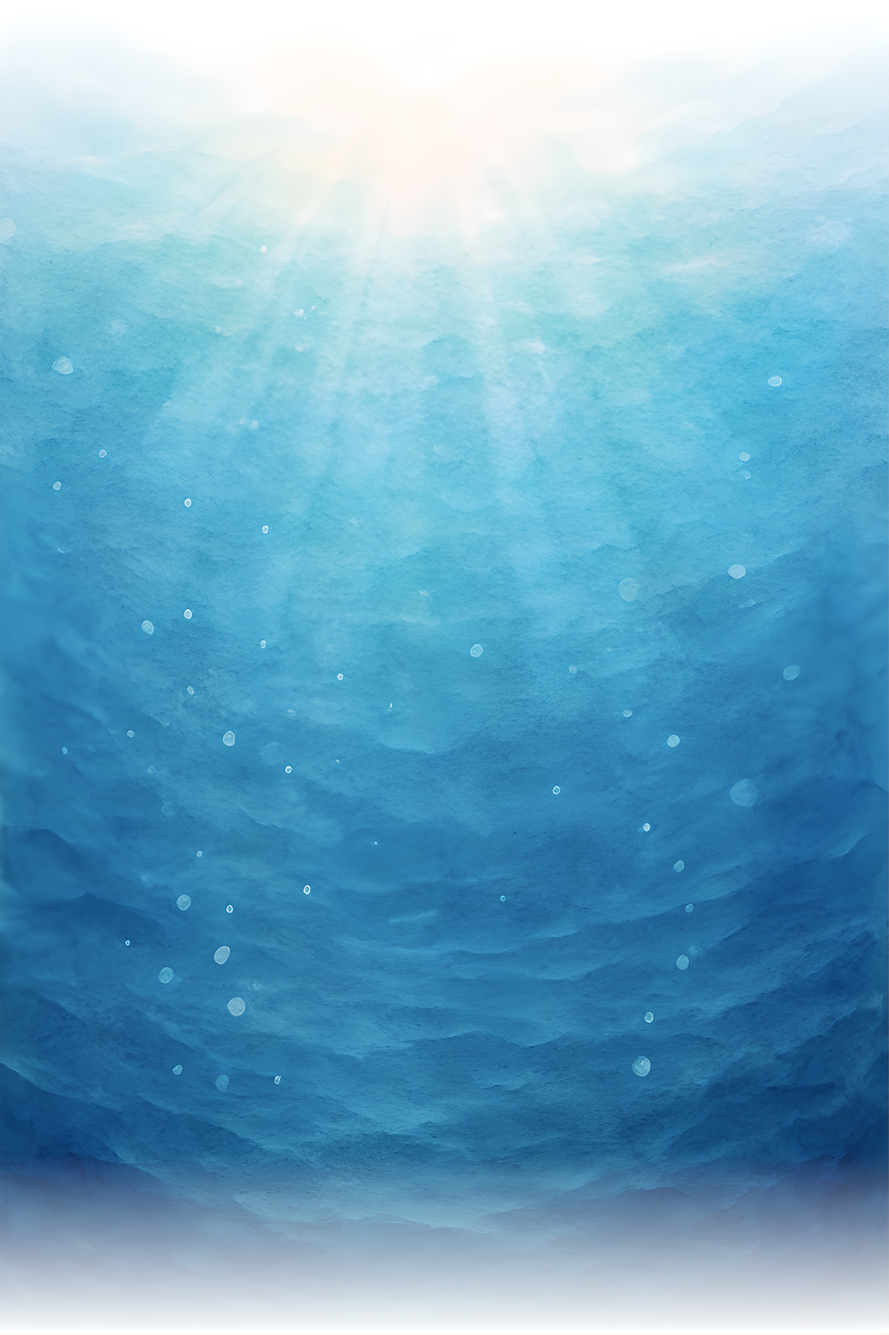
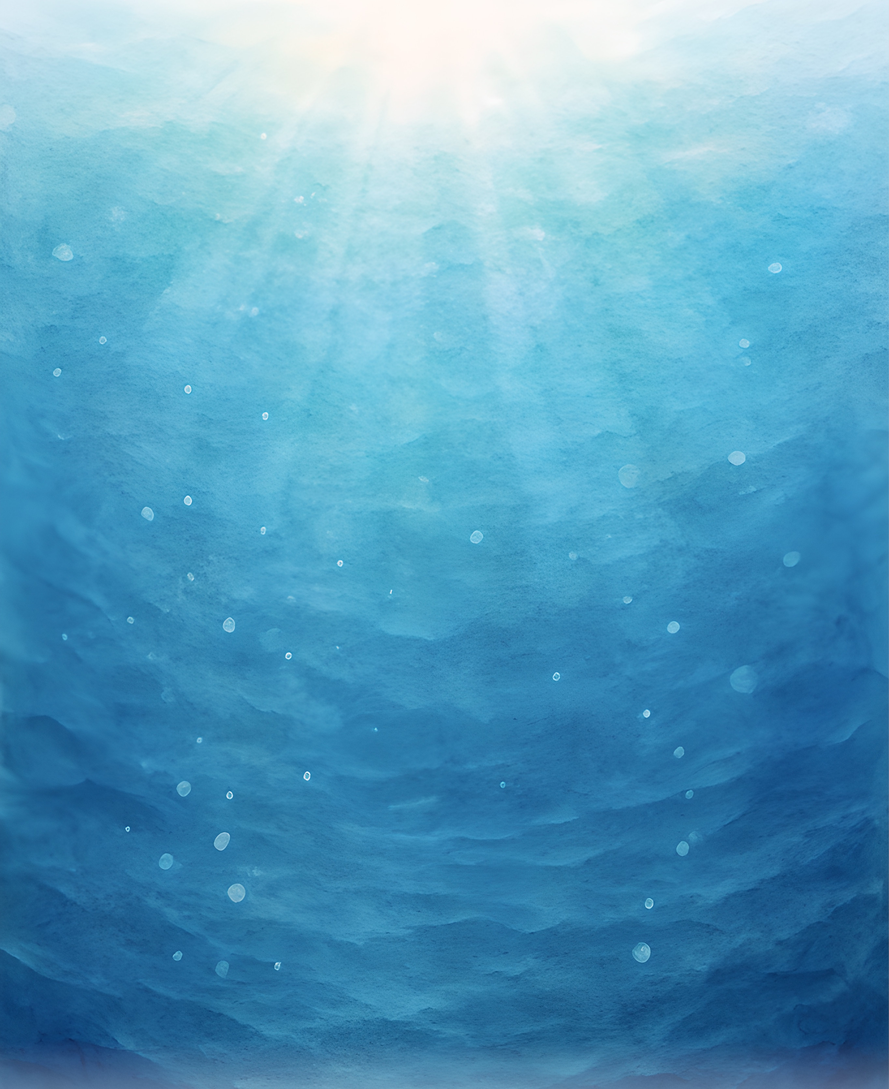
optimized background images

diff --git a/src/components/Navbar.tsx b/src/components/Navbar.tsx
@@ -69,8 +69,11 @@ export default function Navbar() {
     }
   }, [lastScrollY])
 
-  // Inaktivitäts-Timer
+  // Inaktivitäts-Timer (nur wenn nicht in Hero-Section)
   useEffect(() => {
+    // Navbar bleibt in der Hero-Section immer sichtbar
+    if (activeSection === 'home') return
+
     if (!isScrolled || !isVisible || isHovered) return
 
     const hideTimeout = setTimeout(() => {
@@ -78,7 +81,7 @@ export default function Navbar() {
     }, 3000)
 
     return () => clearTimeout(hideTimeout)
-  }, [lastScrollTime, isScrolled, isVisible, isHovered])
+  }, [lastScrollTime, isScrolled, isVisible, isHovered, activeSection])
 
   const scrollToSection = (sectionId: string) => {
     const element = document.getElementById(sectionId)

diff --git a/src/index.css b/src/index.css
@@ -8,18 +8,21 @@ body {
 
 .hero {
   background-image: url('/bg2.jpg');
-  background-size: 100% auto;
+  background-size: cover;
+  background-repeat: no-repeat;
   background-position: center;
 }
 
 .dialog-section {
   background-image: url('/bg1.jpg');
-  background-size: 100% auto;
+  background-size: cover;
+  background-repeat: no-repeat;
   background-position: center;
 }
 
 .map {
   background-image: url('/bg3.jpg');
-  background-size: 100% auto;
+  background-size: cover;
+  background-repeat: no-repeat;
   background-position: center;
 }

diff --git a/src/components/StorySection.tsx b/src/components/StorySection.tsx
@@ -25,7 +25,7 @@ const slides = [
     image: `${import.meta.env.BASE_URL}story/4.png`,
     text: 'Doch eines Nachts kam der große Schatten und legte sich in die Herzen der Menschen. Erschrocken sah Honu, dass die Menschen immer unglücklicher wurden, sodass sie ihren Planeten zu hassen begannen und einander mit immer grausameren Kriegen quälten.',
     horizontal: 'right',
-    vertical: 'top'
+    vertical: 'bottom'
   },
   {
     image: `${import.meta.env.BASE_URL}story/5.png`,
